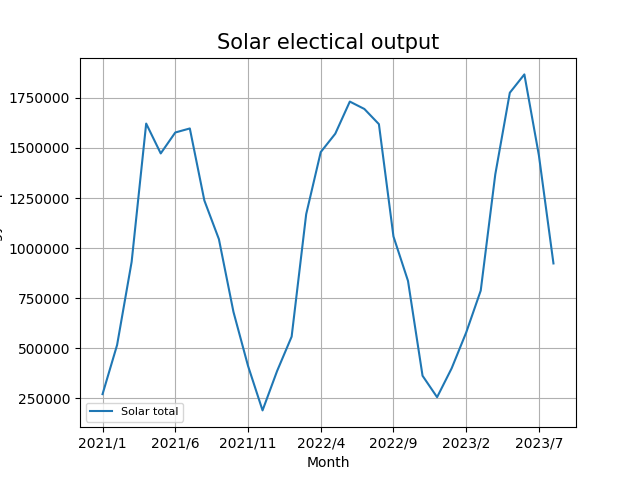
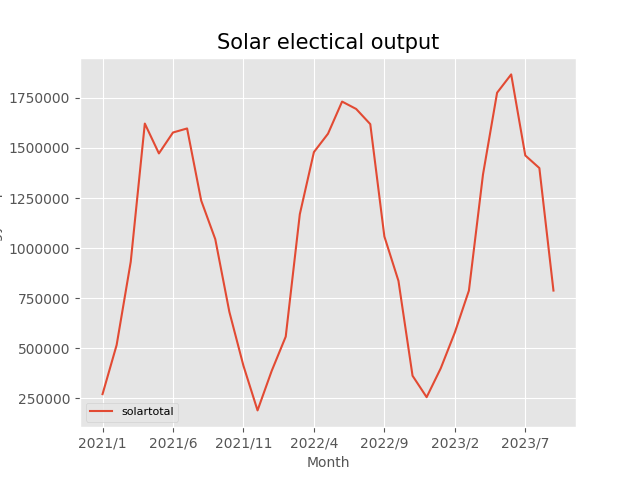
added new chart to solar

diff --git a/envstats/templates/stats/solar.html b/envstats/templates/stats/solar.html
@@ -10,6 +10,8 @@
 
   <img src="{{ url_for('static', filename='images/foo.png') }}">
 
+  <img src="{{ url_for('static', filename='images/solar2.png') }}">
+
   {% for table in output.table1 %}
         
             {{ table|safe }}
